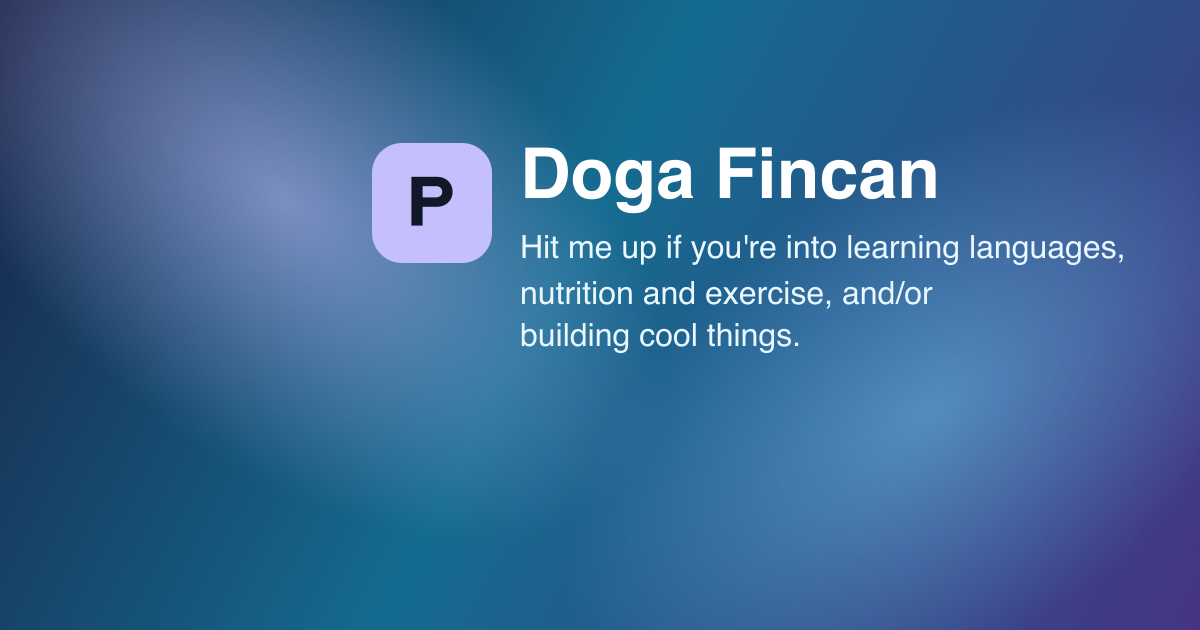
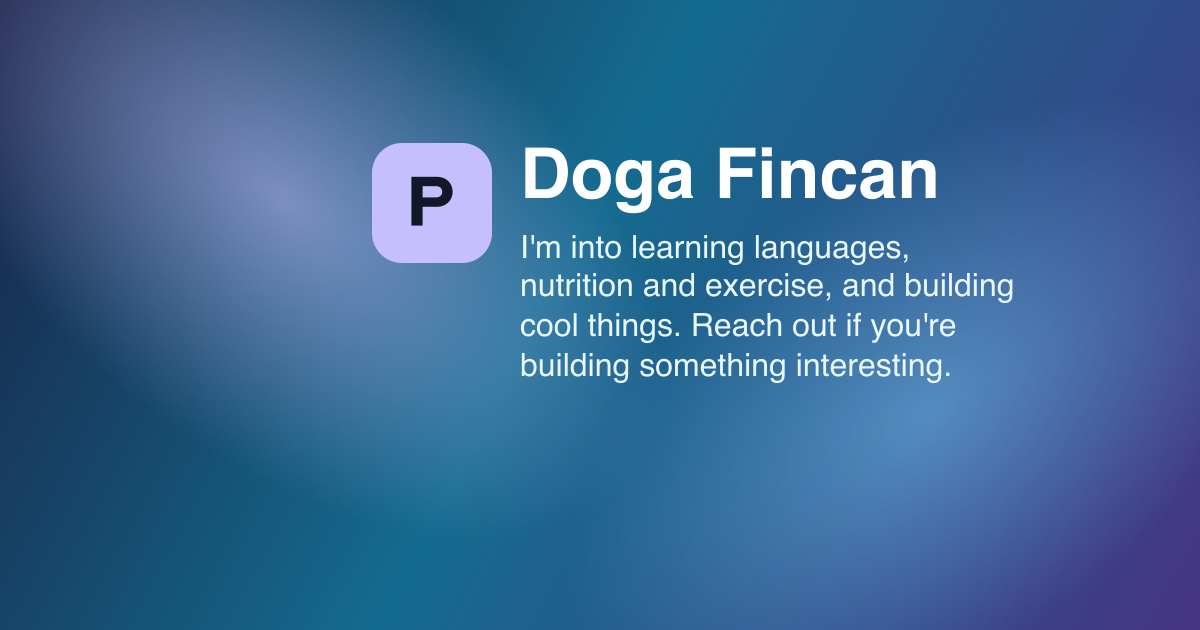
Update portfolio subtitle copy

Changed region(s): [[0.4317, 0.3619, 0.9558, 0.6032]]

diff --git a/src/routes/-index.test.ts b/src/routes/-index.test.ts
@@ -30,11 +30,12 @@ describe("index route head", () => {
     expect(source).toContain('rel: "canonical"');
     expect(source).toContain("href: SITE_URL");
     expect(source).toContain(
-      "Hit me up if you're into learning languages, nutrition and exercise, and/or building cool things.",
+      "I'm into learning languages, nutrition and exercise, and building cool things. Reach out if you're building something interesting.",
     );
     expect(source).not.toContain(
       "Focused web utilities and product systems built with React, Cloudflare, and careful user-facing workflows.",
     );
+    expect(source).not.toContain("Hit me up");
     expect(source).not.toContain("getting my reps in");
     expect(source).not.toContain("staying active");
     expect(source).not.toContain("building useful things for the web");
@@ -42,7 +43,7 @@ describe("index route head", () => {
     expect(siteUrlMatch?.[1]).toBe("https://portfolio.dogafincan.workers.dev");
     expect(socialImageMatch?.[1]).toMatch(/^\/og-image\.png\?v=\d+$/);
     expect(new URL(`${siteUrlMatch?.[1]}${socialImageMatch?.[1]}`).href).toBe(
-      "https://portfolio.dogafincan.workers.dev/og-image.png?v=20260521",
+      "https://portfolio.dogafincan.workers.dev/og-image.png?v=20260522",
     );
     expect(source).not.toContain('const SOCIAL_IMAGE = "/og-image.png";');
 

diff --git a/src/routes/index.tsx b/src/routes/index.tsx
@@ -2,9 +2,9 @@ import { createFileRoute } from "@tanstack/react-router";
 
 const PAGE_TITLE = "Doga Fincan Portfolio";
 const PAGE_DESCRIPTION =
-  "Hit me up if you're into learning languages, nutrition and exercise, and/or building cool things.";
+  "I'm into learning languages, nutrition and exercise, and building cool things. Reach out if you're building something interesting.";
 const SITE_URL = "https://portfolio.dogafincan.workers.dev";
-const SOCIAL_IMAGE = `${SITE_URL}/og-image.png?v=20260521`;
+const SOCIAL_IMAGE = `${SITE_URL}/og-image.png?v=20260522`;
 
 export const Route = createFileRoute("/")({
   head: () => ({

diff --git a/src/components/portfolio-home.test.tsx b/src/components/portfolio-home.test.tsx
@@ -29,7 +29,7 @@ describe("PortfolioHome", () => {
       "max-w-[40rem] text-balance text-lg font-medium md:max-w-full",
     );
     expect(appSubtitle?.textContent).toBe(
-      "Hit me up if you're into learning languages, nutrition and exercise, and/or building cool things.",
+      "I'm into learning languages, nutrition and exercise, and building cool things. Reach out if you're building something interesting.",
     );
     expect(appLogo?.className).toBe("relative size-15 shrink-0 overflow-hidden");
     expect(appLogoImage?.getAttribute("src")).toBe("/app-logo-120.png");

diff --git a/src/components/portfolio-home.tsx b/src/components/portfolio-home.tsx
@@ -111,8 +111,8 @@ export function PortfolioHome() {
               Doga Fincan
             </h1>
             <p className="max-w-[40rem] text-balance text-lg font-medium md:max-w-full">
-              Hit me up if you're into learning languages, nutrition and exercise, and/or building
-              cool things.
+              I'm into learning languages, nutrition and exercise, and building cool things. Reach
+              out if you're building something interesting.
             </p>
           </div>
         </header>

diff --git a/DESIGN.md b/DESIGN.md
@@ -111,8 +111,8 @@ recognizably consistent unless the portfolio intentionally needs an exception.
   title, concise subtitle, centered text, and foreground text color by
   inheritance.
 - The header subtitle should feel informal and personal: language learning,
-  nutrition and exercise, and building things across surfaces are part of the
-  positioning.
+  nutrition and exercise, building things, and inviting interesting builder
+  conversations are part of the positioning.
 - The title class currently matches the sibling apps:
   `text-balance text-4xl leading-tight font-bold tracking-tight`.
 - The subtitle class currently matches the snapshot header width treatment:
